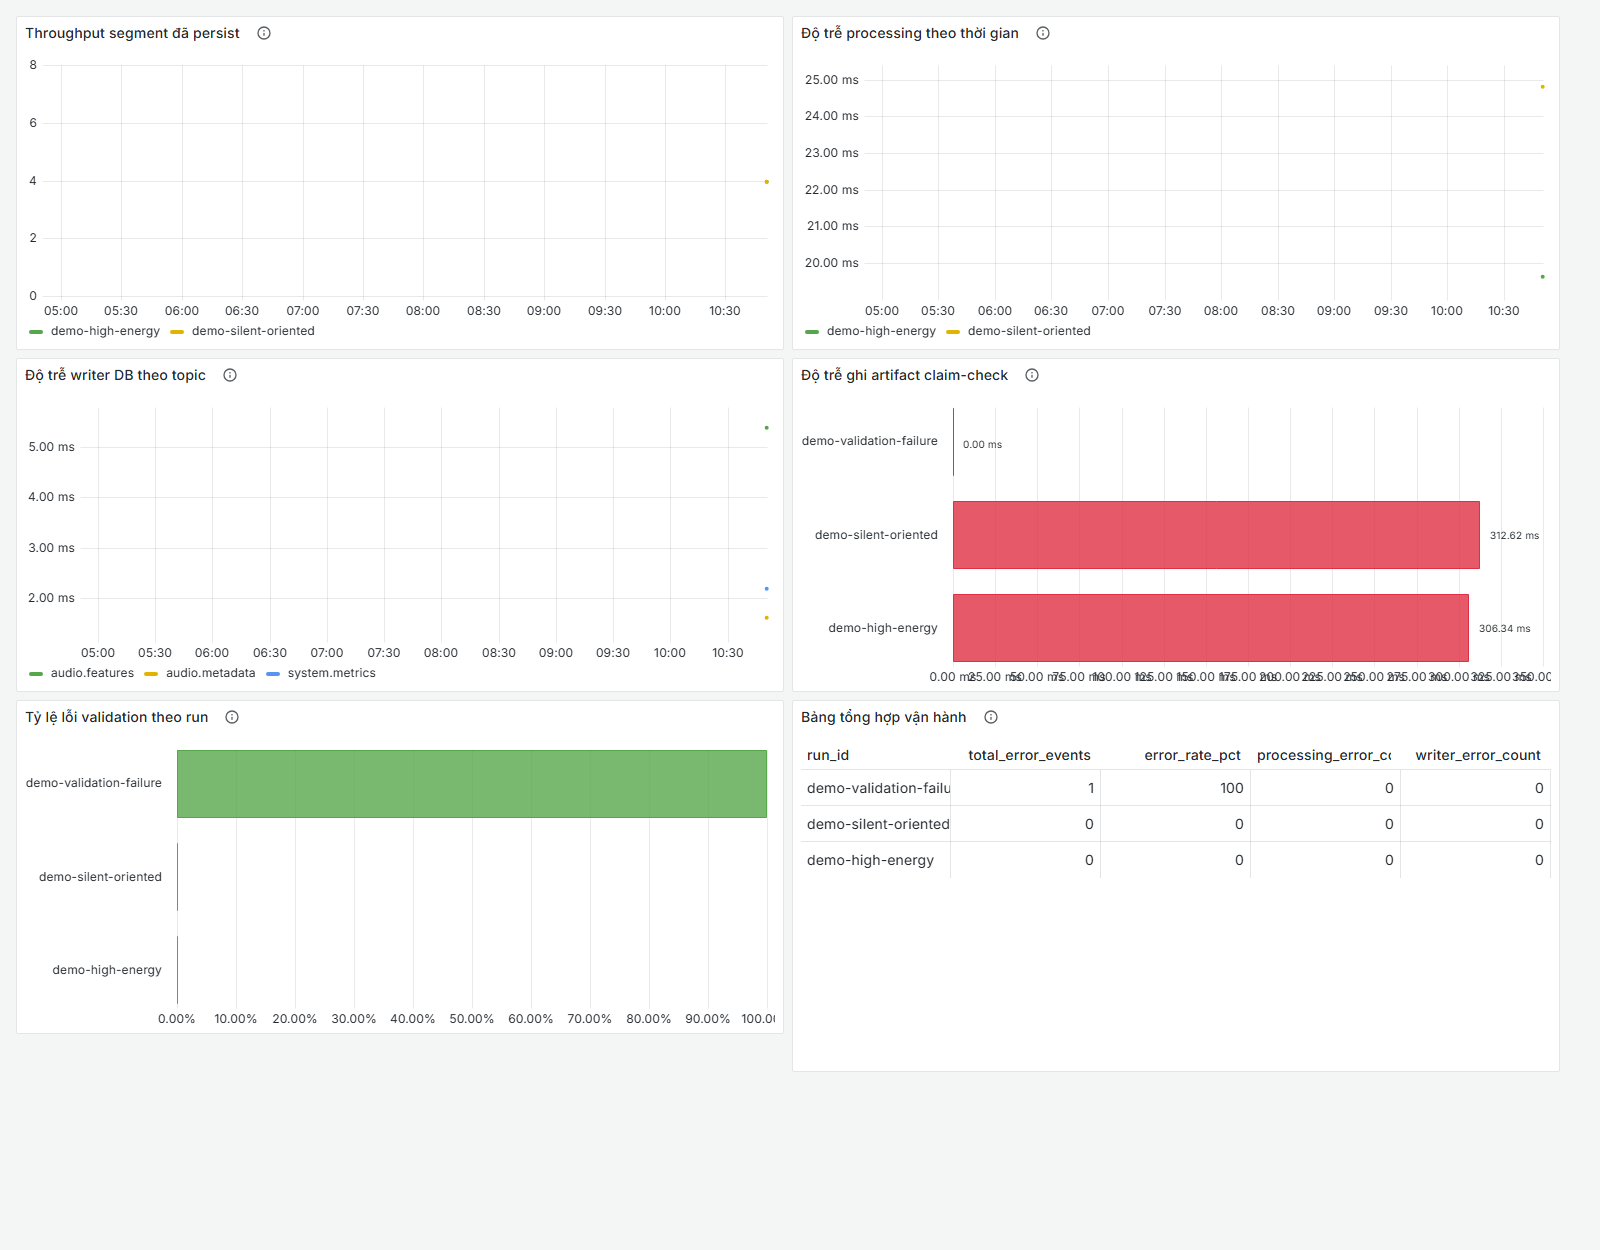
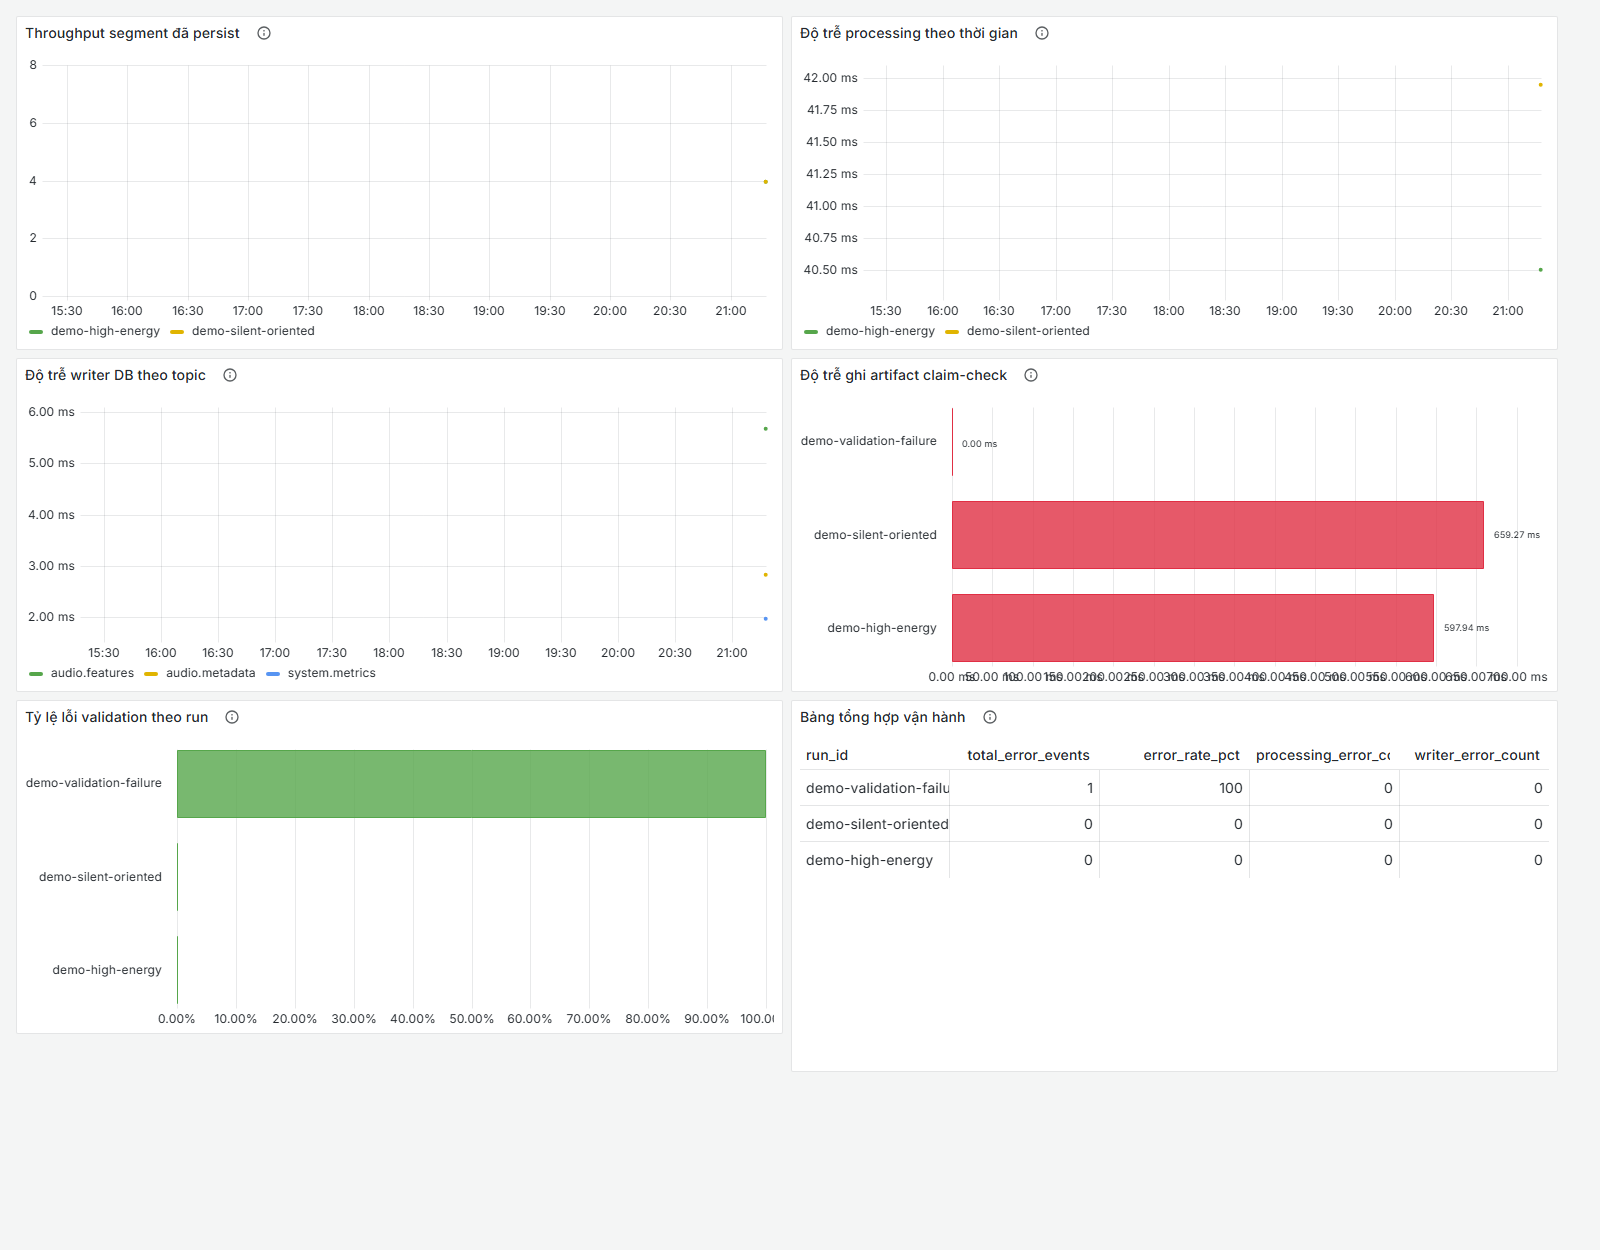
feat: enhance demo scripts and documentation for improved port management and error handling

diff --git a/docs/runbooks/demo.md b/docs/runbooks/demo.md
@@ -30,6 +30,11 @@ Use Grafana after the review story is clear:
 http://localhost:3000
 ```
 
+PowerShell demo scripts use these default ports when they are available. If a
+host port is already owned by another process, the scripts select a free
+fallback port and print the actual Review Console, Grafana, TimescaleDB, and
+Kafka host URLs in the terminal output.
+
 The intended reading order is: review console, Grafana corroboration, dataset bundles, restart/replay artifacts, then separate evaluation evidence from `docs/runbooks/validation.md`.
 
 ## Deterministic Review Runs

diff --git a/README.md b/README.md
@@ -263,6 +263,10 @@ Review console: http://localhost:8080/?demo=1
 Grafana:        http://localhost:3000
 ```
 
+PowerShell demo scripts keep these default ports when available. If another
+process already owns a default host port, the scripts choose a free fallback and
+print the actual URLs before completing.
+
 Thứ tự đọc khuyến nghị: review console -> Grafana -> dataset bundle -> restart/replay evidence -> evaluation evidence.
 
 ### 3. Chỉ bootstrap stack